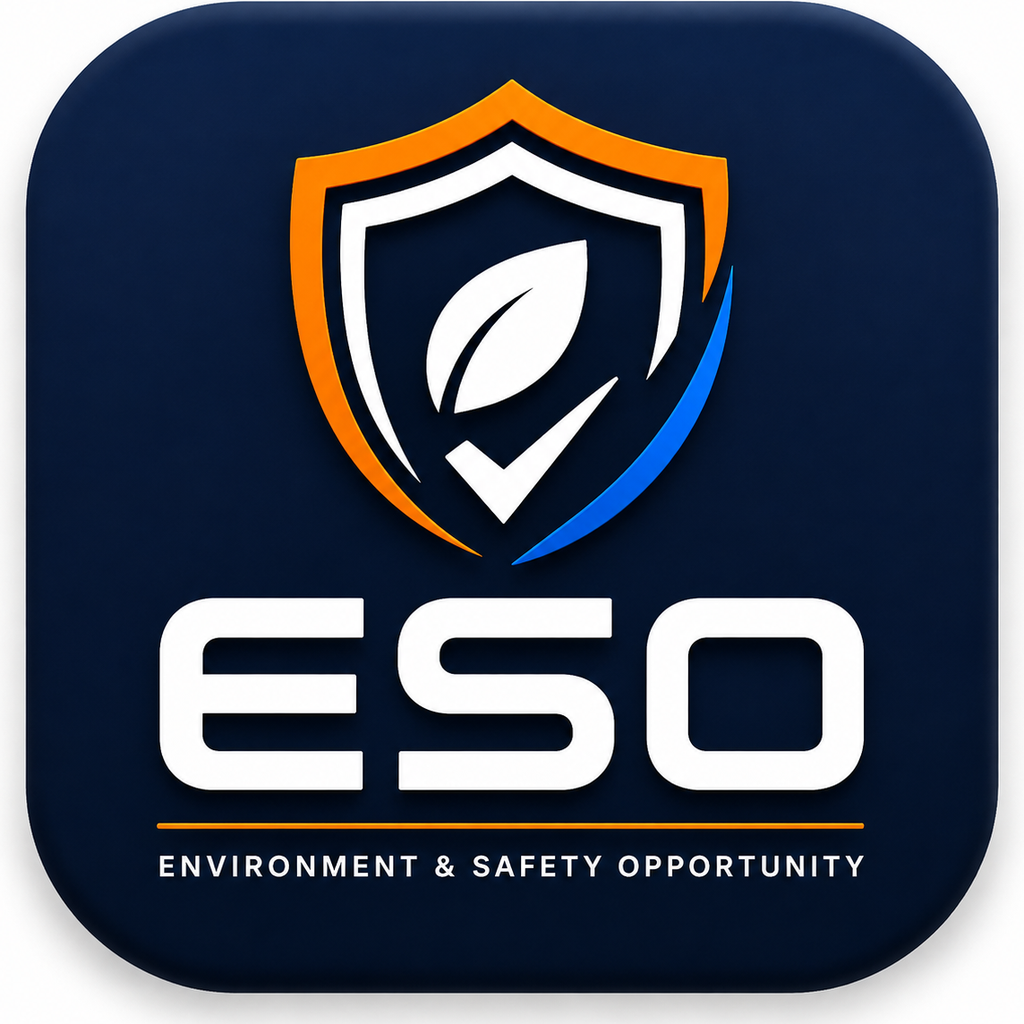
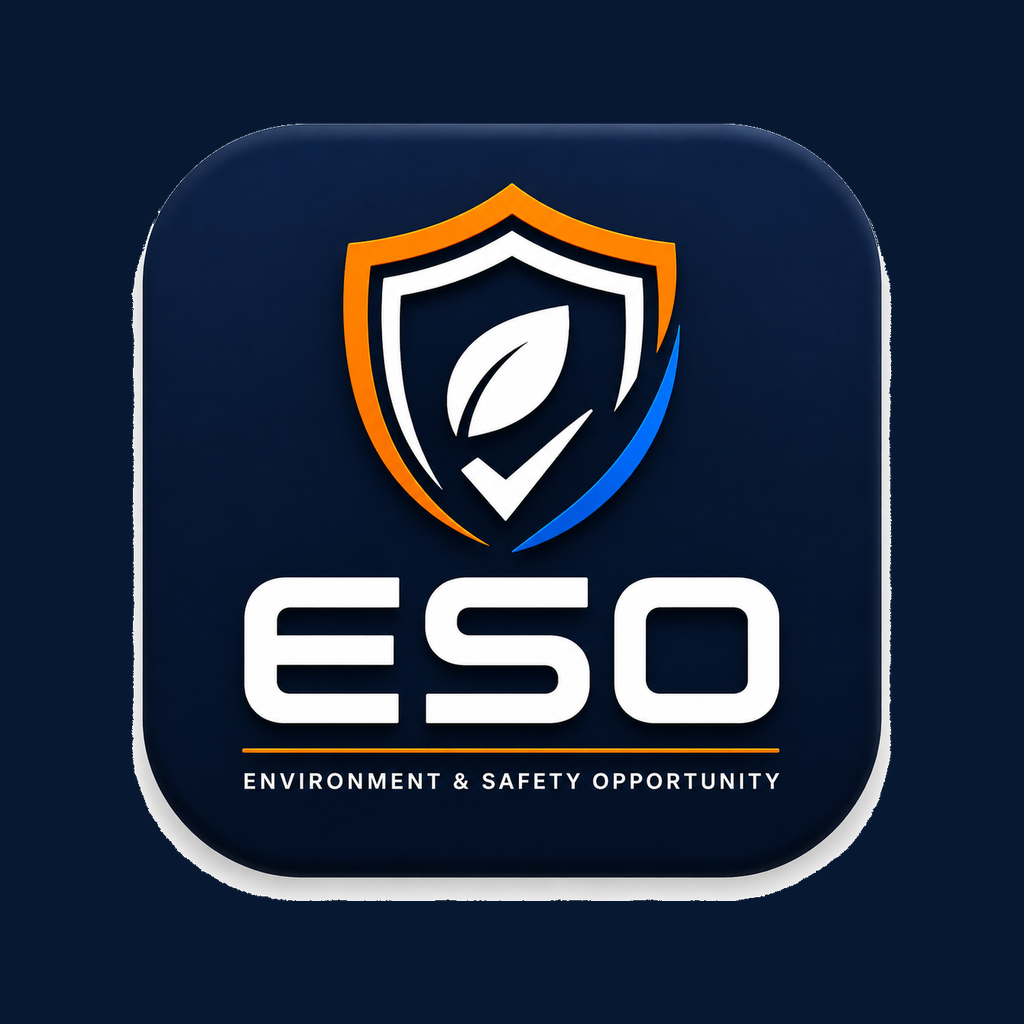
Add files via upload

diff --git a/components/eso-app.tsx b/components/eso-app.tsx
@@ -8,9 +8,9 @@ const canMaintain=(r?:Role)=>r==="Maintenance"||r==="Supervisor"||canAdmin(r);
 const canViewAll=(r?:Role)=>r==="Management"||canAdmin(r);
 async function json(url:string,init?:RequestInit){const r=await fetch(url,init);const d=await r.json().catch(()=>({}));if(!r.ok)throw new Error(d.error||"Request failed");return d}
 export default function ESOApp(){
- const[currentUser,setCurrentUser]=useState<User|null>(null),[users,setUsers]=useState<User[]>([]),[reports,setReports]=useState<ESOReport[]>([]),[departments,setDepartments]=useState<Department[]>([]),[locations,setLocations]=useState<Location[]>([]),[view,setView]=useState<View>("dashboard"),[selected,setSelected]=useState<ESOReport|null>(null),[passwordOpen,setPasswordOpen]=useState(false),[mobileNav,setMobileNav]=useState(false),[loading,setLoading]=useState(true),[notifications,setNotifications]=useState<AppNotification[]>([]),[notificationsOpen,setNotificationsOpen]=useState(false);
+ const[currentUser,setCurrentUser]=useState<User|null>(null),[users,setUsers]=useState<User[]>([]),[reports,setReports]=useState<ESOReport[]>([]),[topEmployeeYtd,setTopEmployeeYtd]=useState<{id:string,name:string,employeeId:string,count:number}|null>(null),[departments,setDepartments]=useState<Department[]>([]),[locations,setLocations]=useState<Location[]>([]),[view,setView]=useState<View>("dashboard"),[selected,setSelected]=useState<ESOReport|null>(null),[passwordOpen,setPasswordOpen]=useState(false),[mobileNav,setMobileNav]=useState(false),[loading,setLoading]=useState(true),[notifications,setNotifications]=useState<AppNotification[]>([]),[notificationsOpen,setNotificationsOpen]=useState(false);
  const loadNotifications=async()=>{try{const d=await json('/api/notifications');setNotifications(d.notifications||[])}catch{setNotifications([])}};
- const load=async()=>{setLoading(true);try{const d=await json('/api/data');setCurrentUser(d.currentUser);setUsers(d.users);setReports(d.reports);setDepartments(d.departments);setLocations(d.locations);await loadNotifications()}catch{setCurrentUser(null);setNotifications([])}finally{setLoading(false)}};
+ const load=async()=>{setLoading(true);try{const d=await json('/api/data');setCurrentUser(d.currentUser);setUsers(d.users);setReports(d.reports);setTopEmployeeYtd(d.topEmployeeYtd||null);setDepartments(d.departments);setLocations(d.locations);await loadNotifications()}catch{setCurrentUser(null);setNotifications([])}finally{setLoading(false)}};
  useEffect(()=>{load()},[]);
  if(loading)return <div className="loading">Loading ESO Management System…</div>;
  if(!currentUser)return <Login onLogin={async()=>{await load();setView("dashboard")}}/>;
@@ -32,7 +32,7 @@ export default function ESOApp(){
    <div className="sidebar-bottom"><button onClick={()=>{setNotificationsOpen(true);loadNotifications()}}><Bell size={17}/> Notifications {unread>0&&<span className="notification-count">{unread}</span>}</button>{currentUser.role!=='Employee'&&<button onClick={()=>setPasswordOpen(true)}><KeyRound size={17}/> Change password</button>}<button onClick={logout}><LogOut size={17}/> Log out</button></div>
   </aside>
   <main className="content">
-   {view==='dashboard'&&<Dashboard user={currentUser} users={users} reports={reports} onReport={()=>go('report')} onOpen={setSelected}/>}
+   {view==='dashboard'&&<Dashboard user={currentUser} users={users} reports={reports} topEmployeeYtd={topEmployeeYtd} onReport={()=>go('report')} onOpen={setSelected}/>}
    {view==='report'&&<ReportForm user={currentUser} locations={locations.filter(l=>l.active!==false)} onDone={async()=>{await load();go('my-history')}}/>}
    {view==='my-history'&&<ReportsTable title="My ESO History" reports={reports.filter(r=>r.reporterId===currentUser.id)} users={users} onOpen={setSelected}/>}
    {view==='all-reports'&&<ReportsTable title="All ESO Submissions" reports={reports} users={users} onOpen={setSelected} adminFilters/>}
@@ -51,14 +51,14 @@ function Nav({icon,label,active,onClick}:{icon:React.ReactNode,label:string,acti
 function Login({onLogin}:{onLogin:()=>Promise<void>}){const[id,setId]=useState(''),[password,setPassword]=useState(''),[error,setError]=useState(''),[busy,setBusy]=useState(false);const submit=async(e:FormEvent)=>{e.preventDefault();setBusy(true);setError('');try{await json('/api/login',{method:'POST',headers:{'Content-Type':'application/json'},body:JSON.stringify({employeeId:id,password})});await onLogin()}catch(e:any){setError(e.message)}finally{setBusy(false)}};return <div className="login-page"><div className="login-brand"><span className="login-logo"><img src="/eso-shield.png" alt="ESO safety shield"/></span><div><span>ESO</span><small>Environment &amp; Safety Opportunity</small></div></div><form className="login-card" onSubmit={submit}><div className="login-icon"><ShieldCheck size={30}/></div><h1>Welcome</h1><p>Enter your Employee ID to continue.</p><label>Employee ID<input autoFocus value={id} onChange={e=>setId(e.target.value)} placeholder="e.g. 10001"/></label><label>Password <small>(privileged roles only)</small><input type="password" value={password} onChange={e=>setPassword(e.target.value)} placeholder="Leave blank for Employee"/></label>{error&&<div className="form-error">{error}</div>}<button className="primary-btn" disabled={busy}>{busy?'SIGNING IN…':'LOG IN'}</button></form></div>}
 function Title({title,subtitle}:{title:string,subtitle?:string}){return <div className="page-title"><div><h1>{title}</h1>{subtitle&&<p>{subtitle}</p>}</div></div>}
 function Badge({text}:{text:string}){return <span className={`badge ${text.toLowerCase().replaceAll(' ','-')}`}>{text}</span>}
-function TopEmployeeCard({users,reports}:{users:User[],reports:ESOReport[]}){const year=new Date().getFullYear(),counts=new Map<string,number>();reports.filter(r=>new Date(r.createdAt).getFullYear()===year).forEach(r=>counts.set(r.reporterId,(counts.get(r.reporterId)||0)+1));const top=users.filter(u=>u.active).map(u=>({u,count:counts.get(u.id)||0})).sort((a,b)=>b.count-a.count||a.u.name.localeCompare(b.u.name))[0];return <div className="top-employee-card"><div className="top-employee-icon"><Trophy size={26}/></div><div className="top-employee-copy"><span>EMPLOYEE WITH MOST ESO YTD</span><strong>{top?.u.name||'No submissions yet'}</strong>{top&&<em>ID {top.u.employeeId}</em>}</div><div className="top-employee-score"><b>{top?.count||0}</b><small>ESO YTD</small></div></div>}
+function TopEmployeeCard({top}:{top:{id:string,name:string,employeeId:string,count:number}|null}){return <div className="top-employee-card"><div className="top-employee-icon"><Trophy size={26}/></div><div className="top-employee-copy"><span>EMPLOYEE WITH MOST ESO YTD</span><strong>{top?.name||'No submissions yet'}</strong>{top&&<em>ID {top.employeeId}</em>}</div><div className="top-employee-score"><b>{top?.count||0}</b><small>ESO YTD</small></div></div>}
 function StatCard({label,value,color,icon}:{label:string,value:number,color:string,icon:React.ReactNode}){return <div className={`stat-card ${color}`}><div><span>{label}</span><strong>{value}</strong></div><div className="stat-icon">{icon}</div></div>}
-function Dashboard({user,users,reports,onReport,onOpen}:{user:User,users:User[],reports:ESOReport[],onReport:()=>void,onOpen:(r:ESOReport)=>void}){
+function Dashboard({user,users,reports,topEmployeeYtd,onReport,onOpen}:{user:User,users:User[],reports:ESOReport[],topEmployeeYtd:{id:string,name:string,employeeId:string,count:number}|null,onReport:()=>void,onOpen:(r:ESOReport)=>void}){
  const year=new Date().getFullYear(),yr=reports.filter(r=>new Date(r.createdAt).getFullYear()===year);
  if(user.role==='Employee'){
   const mine=yr.filter(r=>r.reporterId===user.id),pct=Math.min(100,Math.round(mine.length/user.annualTarget*100));
   return <div className="page"><Title title="My ESO Dashboard" subtitle={`${user.name} • ${user.department}`}/>
-   <div className="employee-dashboard-row"><div className="employee-hero"><div><span>ANNUAL ESO TARGET</span><h2>{mine.length} <small>/ {user.annualTarget}</small></h2><div className="progress"><i style={{width:`${pct}%`}}/></div><p>{Math.max(0,user.annualTarget-mine.length)} reports remaining</p></div><button className="report-big" onClick={onReport}><Plus size={24}/> REPORT ESO</button></div><TopEmployeeCard users={users} reports={reports}/></div>
+   <div className="employee-dashboard-row"><div className="employee-hero"><div><span>ANNUAL ESO TARGET</span><h2>{mine.length} <small>/ {user.annualTarget}</small></h2><div className="progress"><i style={{width:`${pct}%`}}/></div><p>{Math.max(0,user.annualTarget-mine.length)} reports remaining</p></div><button className="report-big" onClick={onReport}><Plus size={24}/> REPORT ESO</button></div><TopEmployeeCard top={topEmployeeYtd}/></div>
    <ReportsTable title="Recent submissions" reports={mine.slice(0,5)} users={users} onOpen={onOpen}/></div>
  }
  const open=reports.filter(r=>r.status==='Open').length,inProgress=reports.filter(r=>r.status==='In Progress').length,completed=reports.filter(r=>r.status==='Completed').length,critical=reports.filter(r=>r.urgency==='Critical'&&r.status!=='Completed').length;
@@ -72,7 +72,7 @@ function Dashboard({user,users,reports,onReport,onOpen}:{user:User,users:User[],
   </div>
   <div className="dashboard-highlight-row">
    <div className="critical-highlight"><div><span>CRITICAL OPEN</span><strong>{critical}</strong></div><div className="critical-icon"><ShieldAlert size={26}/></div></div>
-   <TopEmployeeCard users={users} reports={reports}/>
+   <TopEmployeeCard top={topEmployeeYtd}/>
   </div>
   <DepartmentPerformance users={users} reports={reports}/>
   <div className="panel"><div className="panel-head"><h3>Employee Target Tracker <span>• 12 ESO / YEAR</span></h3></div><EmployeeTable users={users.filter(u=>u.active)} reports={reports}/></div>

diff --git a/app/api/data/route.ts b/app/api/data/route.ts
@@ -11,6 +11,12 @@ export async function GET() {
     db.from('employees').select('id,employee_no,first_name,last_name,role,annual_eso_target,active,department_id,departments(name)').order('last_name')
   ]);
 
+  const yearStart = new Date(new Date().getFullYear(),0,1).toISOString();
+  const [{data:leaderRows,error:leaderError}] = await Promise.all([
+    db.from('eso_reports').select('reporter_id,reported_at').gte('reported_at',yearStart)
+  ]);
+  if(leaderError) return NextResponse.json({error:leaderError.message},{status:400});
+
   let q:any = db.from('eso_reports')
     .select('*,locations(name),eso_attachments(id,storage_path,file_name,mime_type,attachment_type,created_at),maintenance_tasks(assigned_to,status,completed_by,completion_note),corrective_actions(action_text,created_at)')
     .order('reported_at',{ascending:false});
@@ -46,11 +52,15 @@ export async function GET() {
   }));
 
   const current=users.find((u:any)=>u.id===me.id);
+  const leaderCounts=new Map<string,number>();
+  for(const row of leaderRows||[]) leaderCounts.set(row.reporter_id,(leaderCounts.get(row.reporter_id)||0)+1);
+  const globalTop=users.filter((u:any)=>u.active).map((u:any)=>({id:u.id,name:u.name,employeeId:u.employeeId,count:leaderCounts.get(u.id)||0})).sort((a:any,b:any)=>b.count-a.count||a.name.localeCompare(b.name))[0]||null;
   const privilegedUsers=canAdmin(me.role)||canMaintain(me.role)||canViewAll(me.role);
   return NextResponse.json({
     currentUser:current,
     users:privilegedUsers?users:[current],
     reports:mapped,
+    topEmployeeYtd:globalTop,
     departments:(deps||[]).map((d:any)=>({id:d.id,name:d.name,code:d.code||null,active:d.active})),
     locations:(locs||[]).map((l:any)=>({id:l.id,name:l.name,active:l.active,departmentId:l.department_id,departmentName:l.departments?.name||null}))
   });

diff --git a/public/sw.js b/public/sw.js
@@ -1,4 +1,4 @@
-const CACHE='eso-shell-v51';
+const CACHE='eso-shell-v52';
 const CORE=['/','/manifest.webmanifest','/icon-192.png','/icon-512.png','/eso-shield.png'];
 self.addEventListener('install',event=>{event.waitUntil(caches.open(CACHE).then(c=>c.addAll(CORE)).catch(()=>{}));self.skipWaiting();});
 self.addEventListener('activate',event=>{event.waitUntil(caches.keys().then(keys=>Promise.all(keys.filter(k=>k!==CACHE).map(k=>caches.delete(k)))));self.clients.claim();});

diff --git a/README.md b/README.md
@@ -55,3 +55,8 @@ The live ESO Supabase project has already received the v4 notifications-table mi
 - Employee dashboard also shows Employee With Most ESO YTD
 - Mobile dashboard keeps the two highlight cards side-by-side at 100% browser zoom
 - Department Performance returns to full-width for better readability
+
+
+## v5.2 fixes
+- Global Employee with Most ESO YTD is calculated across all active employees for every role.
+- PWA/app icon artwork reduced inside the safe area for Android launcher masks.
